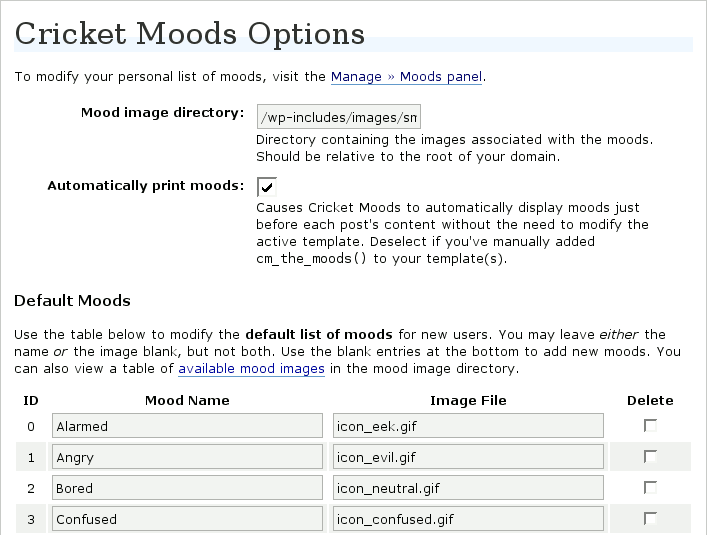
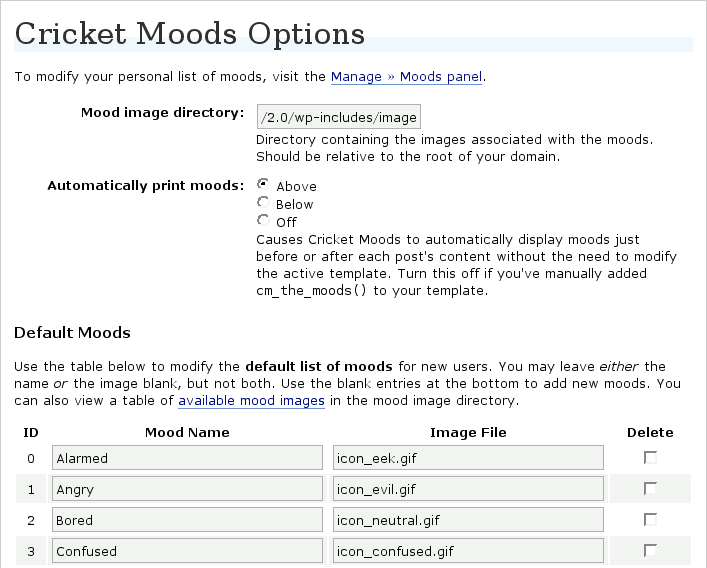
* Dirty fix for people still having issues (maybe?). * Added buttons to reset both personal and the global mood lists. * Added an option to specify whether the moods should be placed above or below the content. * Updated readme and screenshot #3 to reflect these changes.
git-svn-id: https://plugins.svn.wordpress.org/cricket-moods/trunk@7129 b8457f37-d9ea-0310-8a92-e5e31aec5664

diff --git a/cricket-moods.php b/cricket-moods.php
@@ -361,10 +361,15 @@ cm_auto_moods
 Used if the AutoPrint option is enabled.
 */
 function cm_auto_moods($content) {
-	return cm_the_moods(' &amp; ', '<p class="moods">Current Mood: ', '</p>', true) . $content;
+	$pos = get_option(CM_OPTION_AUTOPRINT);
+	if ($pos == "above") {
+		return cm_the_moods(' &amp; ', '<p class="moods">Current Mood: ', '</p>', true) . $content;
+	} elseif ($pos == "below") {
+		return $content . cm_the_moods(' &amp; ', '<p class="moods">Current Mood: ', '</p>', true);
+	}
 }
 
-if( !is_admin() && get_option(CM_OPTION_AUTOPRINT) == "on" ) {
+if( !is_admin() && get_option(CM_OPTION_AUTOPRINT) != "off" ) {
 	add_filter('the_content', 'cm_auto_moods');
 }
 
@@ -424,6 +429,23 @@ function cm_admin_style() { ?>
 	width: 1.5em;
 	height: 1.5em;
 }
+
+#cm_reset {
+	border: 2px groove maroon;
+	padding: 0 1em;
+	margin: 1em .5em;
+	background-color: transparent;
+}
+
+#cm_reset:hover {
+	background-color: #FFDDDD;
+	color: black;
+}
+
+#cm_reset legend {
+	font-size: 1.1em;
+	font-weight: bold;
+}
 </style>
 <!-- end Cricket Moods -->
 
@@ -471,8 +493,14 @@ function cm_admin_panel() {
 	$mood_list = cm_process_moods(-1);
 	$index = cm_get_index(-1);
 
+	if ( isset($_POST['cm_reset_moods']) ) {
+		delete_option(CM_OPTION_MOODS);
+		delete_option(CM_OPTION_INDEX);
+		cm_install(true);
+	}
+
 	// If the user pushed the update button.
-	if ( isset($_POST['cm_options_update']) ) {
+	elseif ( isset($_POST['cm_options_update']) ) {
 		$err = array();
 
 		// We don't like a blank image directory.
@@ -488,9 +516,7 @@ function cm_admin_panel() {
 
 		// Pretty obvious.  Set or unset the autoprint option.
 		if ( !empty($_POST['cm_auto_print'] ) ) {
-			update_option(CM_OPTION_AUTOPRINT, "on");
-		} else {
-			update_option(CM_OPTION_AUTOPRINT, "off");
+			update_option(CM_OPTION_AUTOPRINT, $_POST['cm_auto_print']);
 		}
 
 				foreach ($_POST as $name => $value) {
@@ -549,8 +575,11 @@ function cm_admin_panel() {
 </tr>
 <tr valign="top"<?php cm_err('cm_auto_print', $err) ?>>
 <th width="33%" scope="row"><label for="cm_auto_print">Automatically print moods:</label></th>
-	<td><input type="checkbox" id="cm_auto_print" name="cm_auto_print" <?php if ( get_option(CM_OPTION_AUTOPRINT) == "on" ) echo 'checked="true"' ?>/><br/>
-	Causes Cricket Moods to automatically display moods just before each post's content without the need to modify the active template.  Deselect if you've manually added <code>cm_the_moods()</code> to your template(s).</td>
+	<td>
+		<input type="radio" id="cm_auto_print_above" name="cm_auto_print" value="above" <?php if ( get_option(CM_OPTION_AUTOPRINT) == "above" ) echo 'checked="true"' ?>/> <label for="cm_auto_print_above">Above</label><br/>
+		<input type="radio" id="cm_auto_print_below" name="cm_auto_print" value="below" <?php if ( get_option(CM_OPTION_AUTOPRINT) == "below" ) echo 'checked="true"' ?>/> <label for="cm_auto_print_below">Below</label><br/>
+		<input type="radio" id="cm_auto_print_off" name="cm_auto_print" value="off" <?php if ( get_option(CM_OPTION_AUTOPRINT) == "off" ) echo 'checked="true"' ?>/> <label for="cm_auto_print_off">Off</label><br/>
+		Causes Cricket Moods to automatically display moods just before or after each post's content without the need to modify the active template.  Turn this off if you've manually added <code>cm_the_moods()</code> to your template.</td>
 </tr>
 </table>
 
@@ -567,6 +596,13 @@ cm_edit_moods_table( cm_process_moods(-1) , $index, $err); ?>
 <p class="submit">
 <input type="submit" name="cm_options_update" value="Update Options &raquo;"/>
 </p>
+</form>
+
+<form method="post">
+<fieldset id="cm_reset"><legend>Reset Moods</legend>
+<p>Clicking this button will reset the blog's default mood list to the built-in "factory default" mood list.  This will not affect any user's personal mood list.</p>
+<p><input type="submit" name="cm_reset_moods" value="Reset moods to factory defaults!" onclick="return confirm('Are you sure that you want to reset your moods?');"/></p>
+</fieldset>
 </form>
 
 </div>
@@ -622,7 +658,7 @@ function cm_edit_moods_table($mood_list, $index, $err = array() ) {
 			<td><?php echo $id ?><input type="hidden" name="cm_id_<?php echo $id ?>" value="<?php echo $id ?>"/></td>
 			<td><input class="cm_text" type="text" name="cm_name_<?php echo $id ?>" value="<?php echo wp_specialchars($mood['mood_name'], true) ?>"/></td>
 			<td><input class="cm_text" type="text" name="cm_image_<?php echo $id ?>" value="<?php echo wp_specialchars($mood['mood_image'], true) ?>"/></td>
-			<td class="delete"><input type="checkbox" name="cm_delete_<?php echo $id ?>"/></td>
+			<td class="delete"><input type="checkbox" name="cm_delete_<?php echo $id ?>" onclick="return confirm('Are you sure you want to delete this mood?');"/></td>
 		</tr>
 <?php
 	}
@@ -655,8 +691,13 @@ function cm_manage_panel() {
 	$mood_list = cm_process_moods();
 	$index = cm_get_index();
 
+	if ( isset($_POST['cm_reset_moods']) ) {
+		delete_usermeta($user_ID, CM_OPTION_MOODS);
+		delete_usermeta($user_ID, CM_OPTION_INDEX);
+	}
+
 	// Begin updating moods from manage panel.
-	if ( isset($_POST['cm_mood_update']) ) {
+	elseif ( isset($_POST['cm_mood_update']) ) {
 		$err = array();
 
 		// Parse the $_POST for the CM options we want.
@@ -709,6 +750,11 @@ function cm_manage_panel() {
 <div class="wrap">
 <h2>Cricket Moods</h2>
 
+<?php if ( isset($_GET['debug']) ) { ?>
+<div style="font-face: monospace; padding: 1em; border: 2px solid black; background-color: #FFDDDD;"><pre>
+<?php print_r(get_usermeta($GLOBALS['user_ID'], CM_OPTION_MOODS)); ?>
+</pre></div><?php } ?>
+
 <form method="post">
 	<p>Use the table below to modify your list of moods.  You may leave <em>either</em> the name <em>or</em> the image blank, but not both.  Use the blank entries at the bottom to add new moods.<?php if($_GET['showimages'] != 'true') { ?>  You can also view a table of <a href="<?php echo $_SERVER['REQUEST_URI']. '&showimages=true' ?>">available mood images</a> in the mood image directory.<?php } ?></p>
 	<p><strong>Deleting a mood will also remove any references to that mood from your posts.</strong></p>
@@ -725,6 +771,13 @@ function cm_manage_panel() {
 <p class="submit">
 <input type="submit" name="cm_mood_update" value="Update Moods &raquo;"/>
 </p>
+</form>
+
+<form method="post">
+<fieldset id="cm_reset"><legend>Reset Moods</legend>
+<p>Clicking this button will delete your personal list of moods, causing the plugin to reinitialize your list with the moods specified in the Cricket Moods option panel.  Use this as a last resord only, as it will likely cause custom moods used in past posts to not appear.</p>
+<p><input type="submit" name="cm_reset_moods" value="Reset moods to blog defaults!" onclick="return confirm('Are you sure that you want to reset your moods?');"/></p>
+</fieldset>
 </form>
 
 </div>
@@ -744,7 +797,7 @@ cm_install
 
 Initialize the default mood list.
 */
-function cm_install() {
+function cm_install($force = false) {
 
 	// This plugin will not work with WP < 2.0.5
 	$wp_var = explode('.', $GLOBALS['wp_version']);
@@ -752,7 +805,7 @@ function cm_install() {
 		header('Location: plugins.php?action=deactivate&plugin='. basename(__FILE__) );
 	}
 
-	if ( get_option(CM_OPTION_VERSION) != CM_VERSION || $_GET['cm_force_install'] == 'true' ) {
+	if ( get_option(CM_OPTION_VERSION) != CM_VERSION || $_GET['cm_force_install'] == 'true' || $force == true ) {
 
 		update_option(CM_OPTION_VERSION, CM_VERSION);
 
@@ -781,8 +834,8 @@ function cm_install() {
 			$basepath = parse_url( get_option('siteurl') );
 			update_option(CM_OPTION_DIR,  $basepath['path'] .'/wp-includes/images/smilies/');
 		}
-		if ( !get_option(CM_OPTION_AUTOPRINT) ) {
-			update_option(CM_OPTION_AUTOPRINT, 'on');
+		if ( !get_option(CM_OPTION_AUTOPRINT) || get_option(CM_OPTION_AUTOPRINT) == "on" ) {
+			update_option(CM_OPTION_AUTOPRINT, 'above');
 		}
 
 	}
